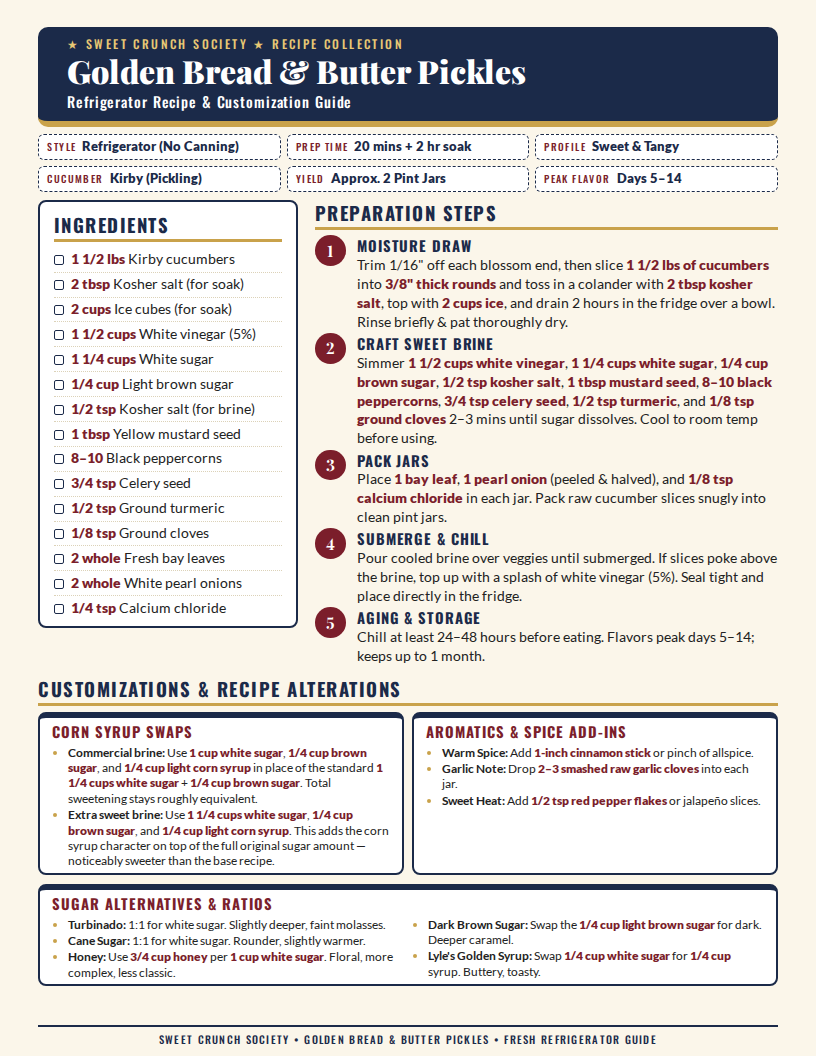
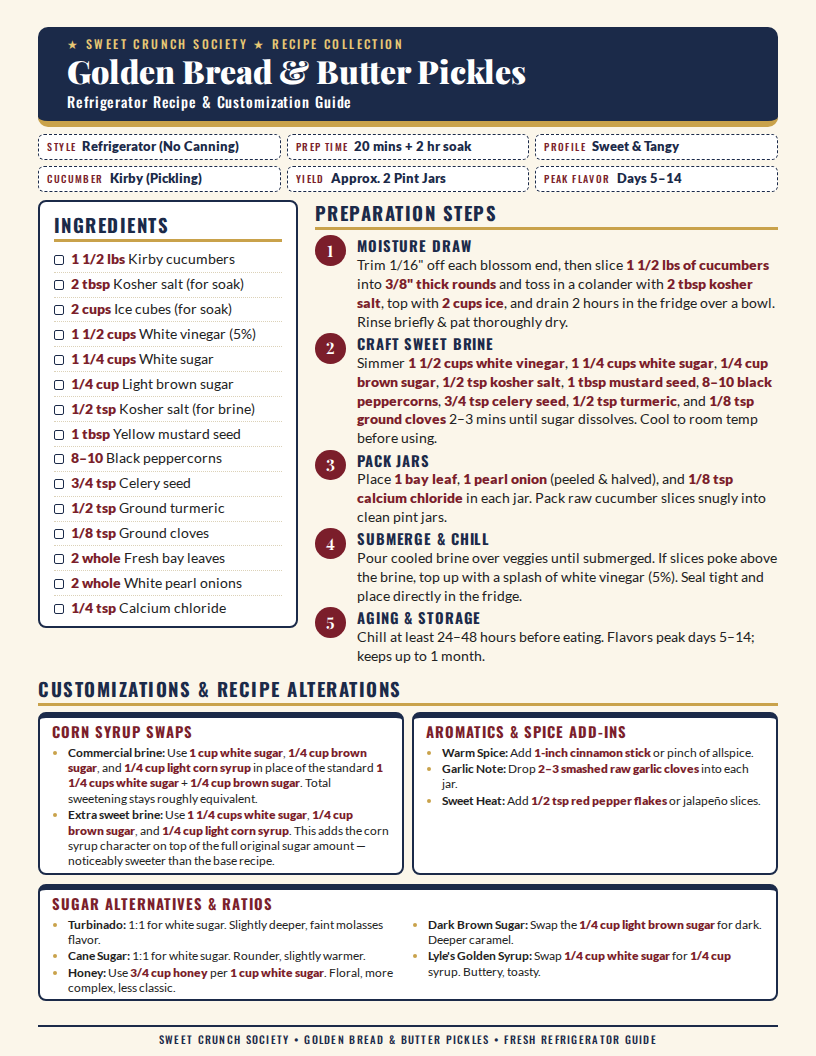
docs: Turbinado note reads "faint molasses flavor"
Regenerated docs/preview.png.

Changed region(s): [[0.0613, 0.875, 0.4902, 0.9688]]

diff --git a/index.html b/index.html
@@ -196,7 +196,7 @@
         <div class="card wide">
           <h3>Sugar Alternatives &amp; Ratios</h3>
           <ul>
-            <li><b>Turbinado:</b> 1:1 for white sugar. Slightly deeper, faint molasses.</li>
+            <li><b>Turbinado:</b> 1:1 for white sugar. Slightly deeper, faint molasses flavor.</li>
             <li><b>Cane Sugar:</b> 1:1 for white sugar. Rounder, slightly warmer.</li>
             <li><b>Honey:</b> Use <strong>3/4 cup honey</strong> per <strong>1 cup white sugar</strong>. Floral, more complex, less classic.</li>
             <li><b>Dark Brown Sugar:</b> Swap the <strong>1/4 cup light brown sugar</strong> for dark. Deeper caramel.</li>
